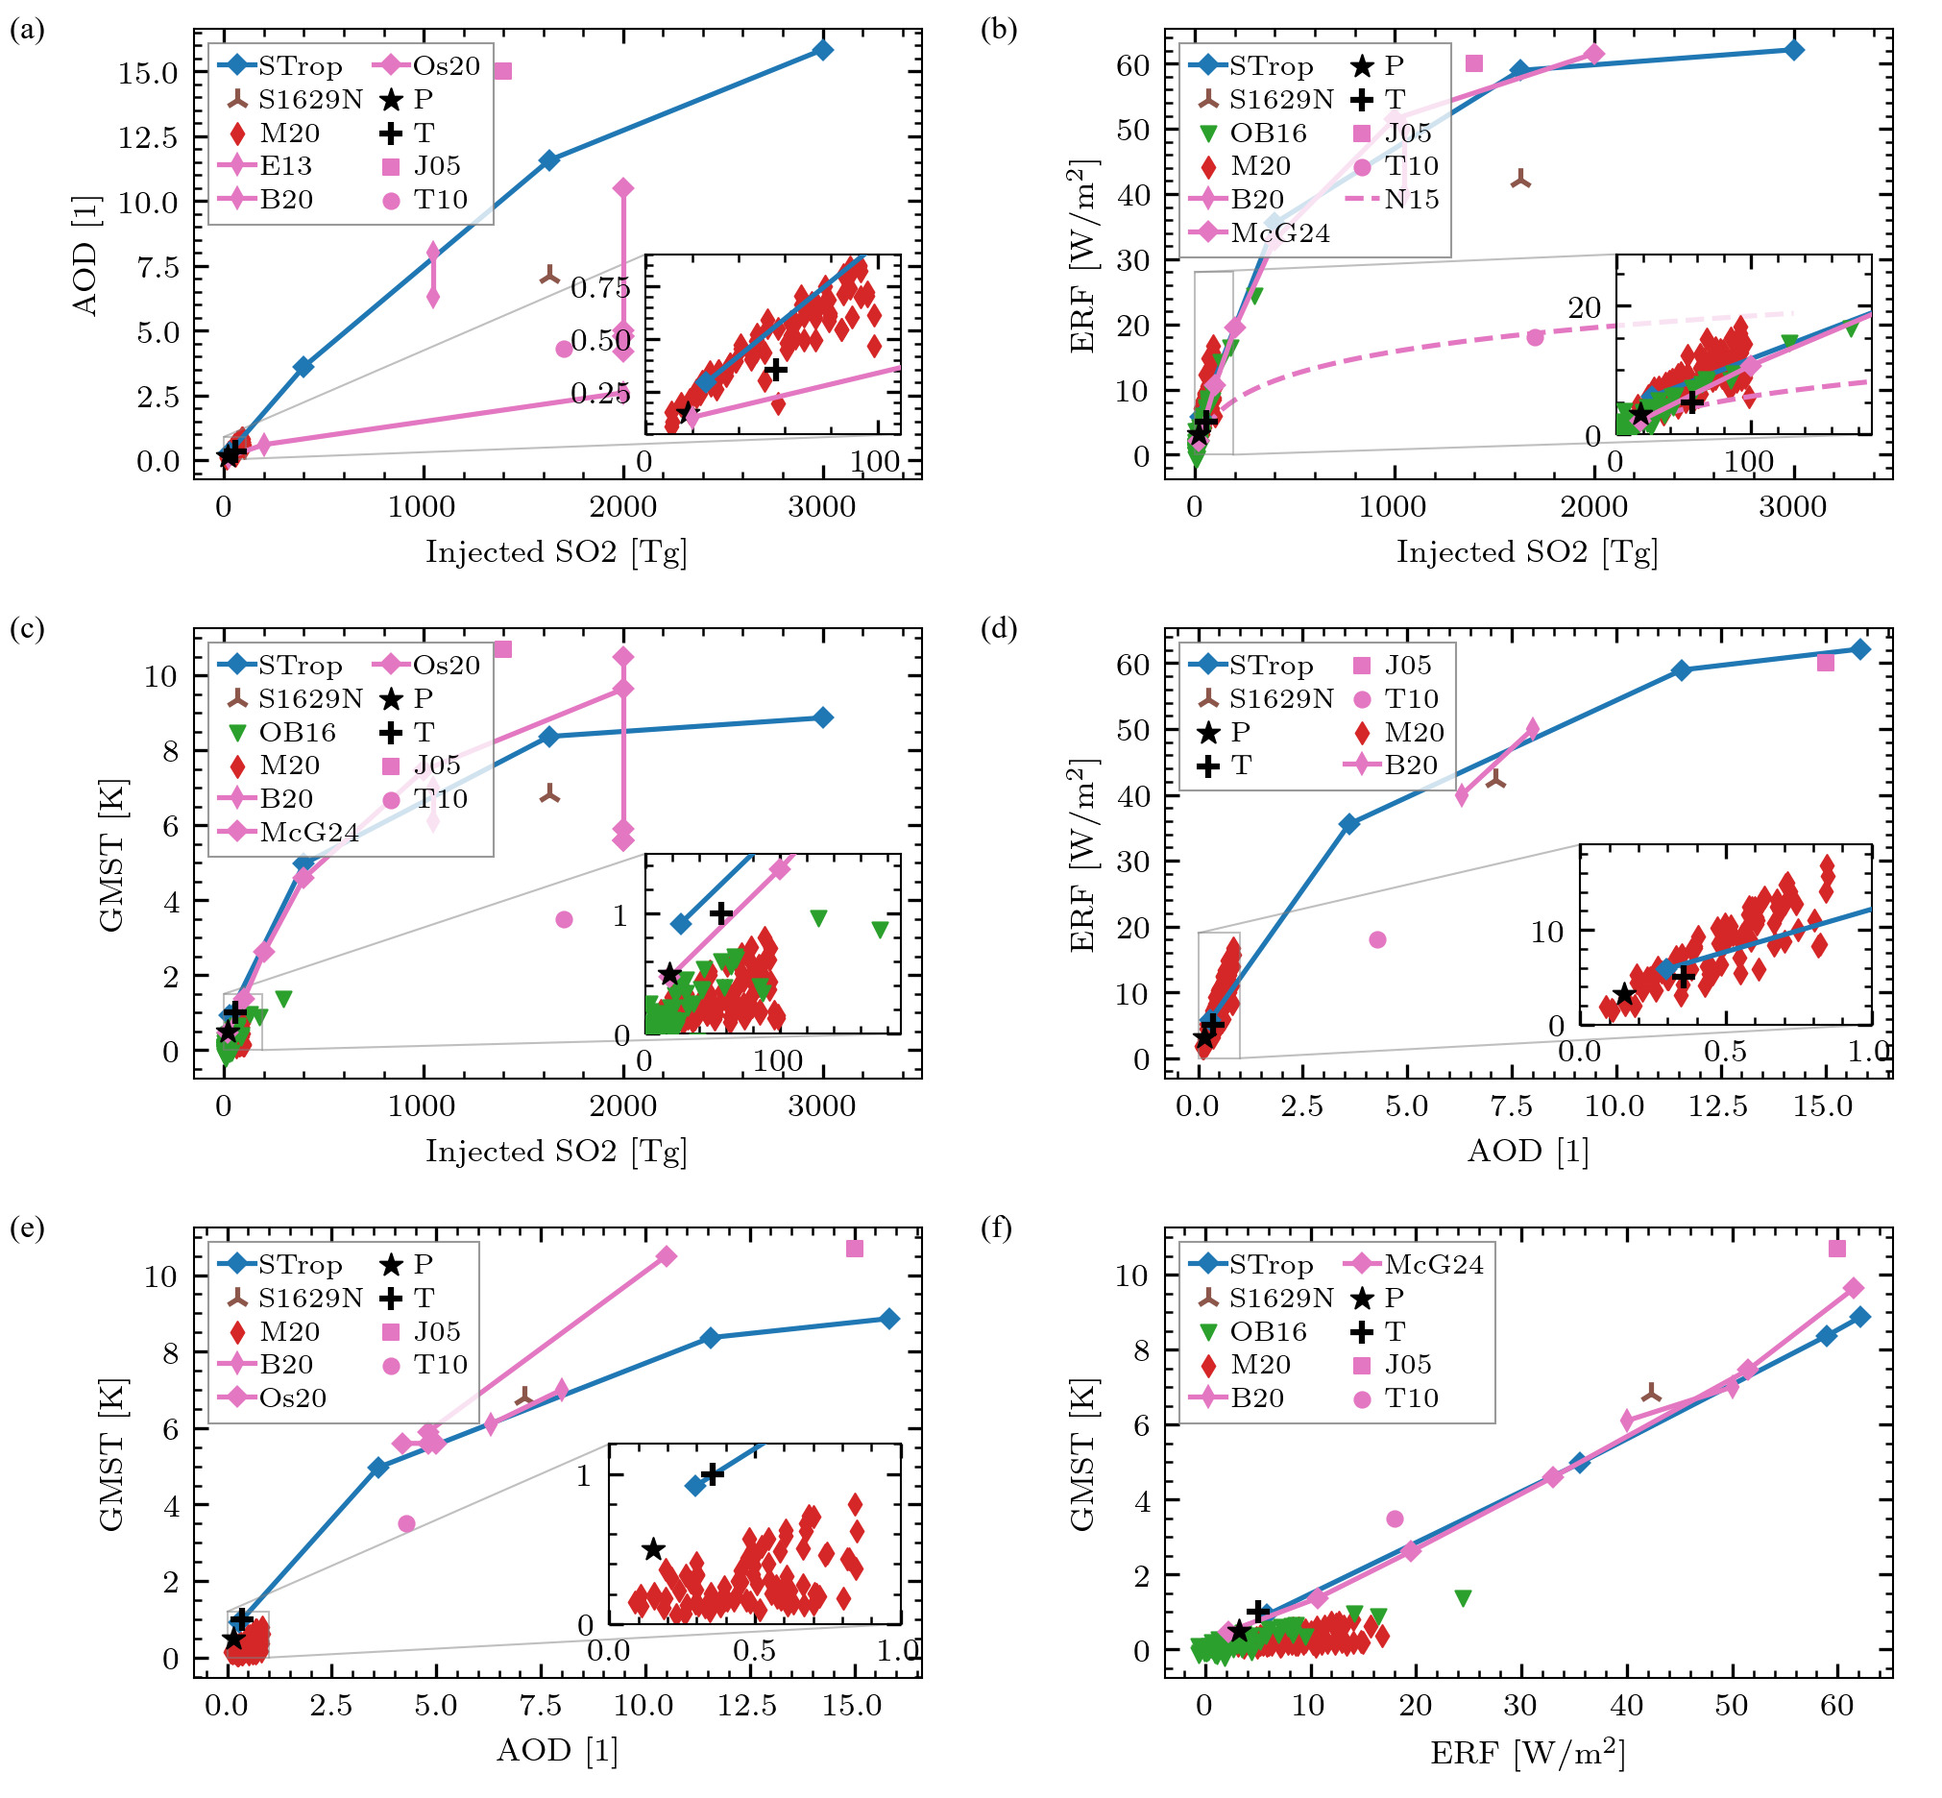
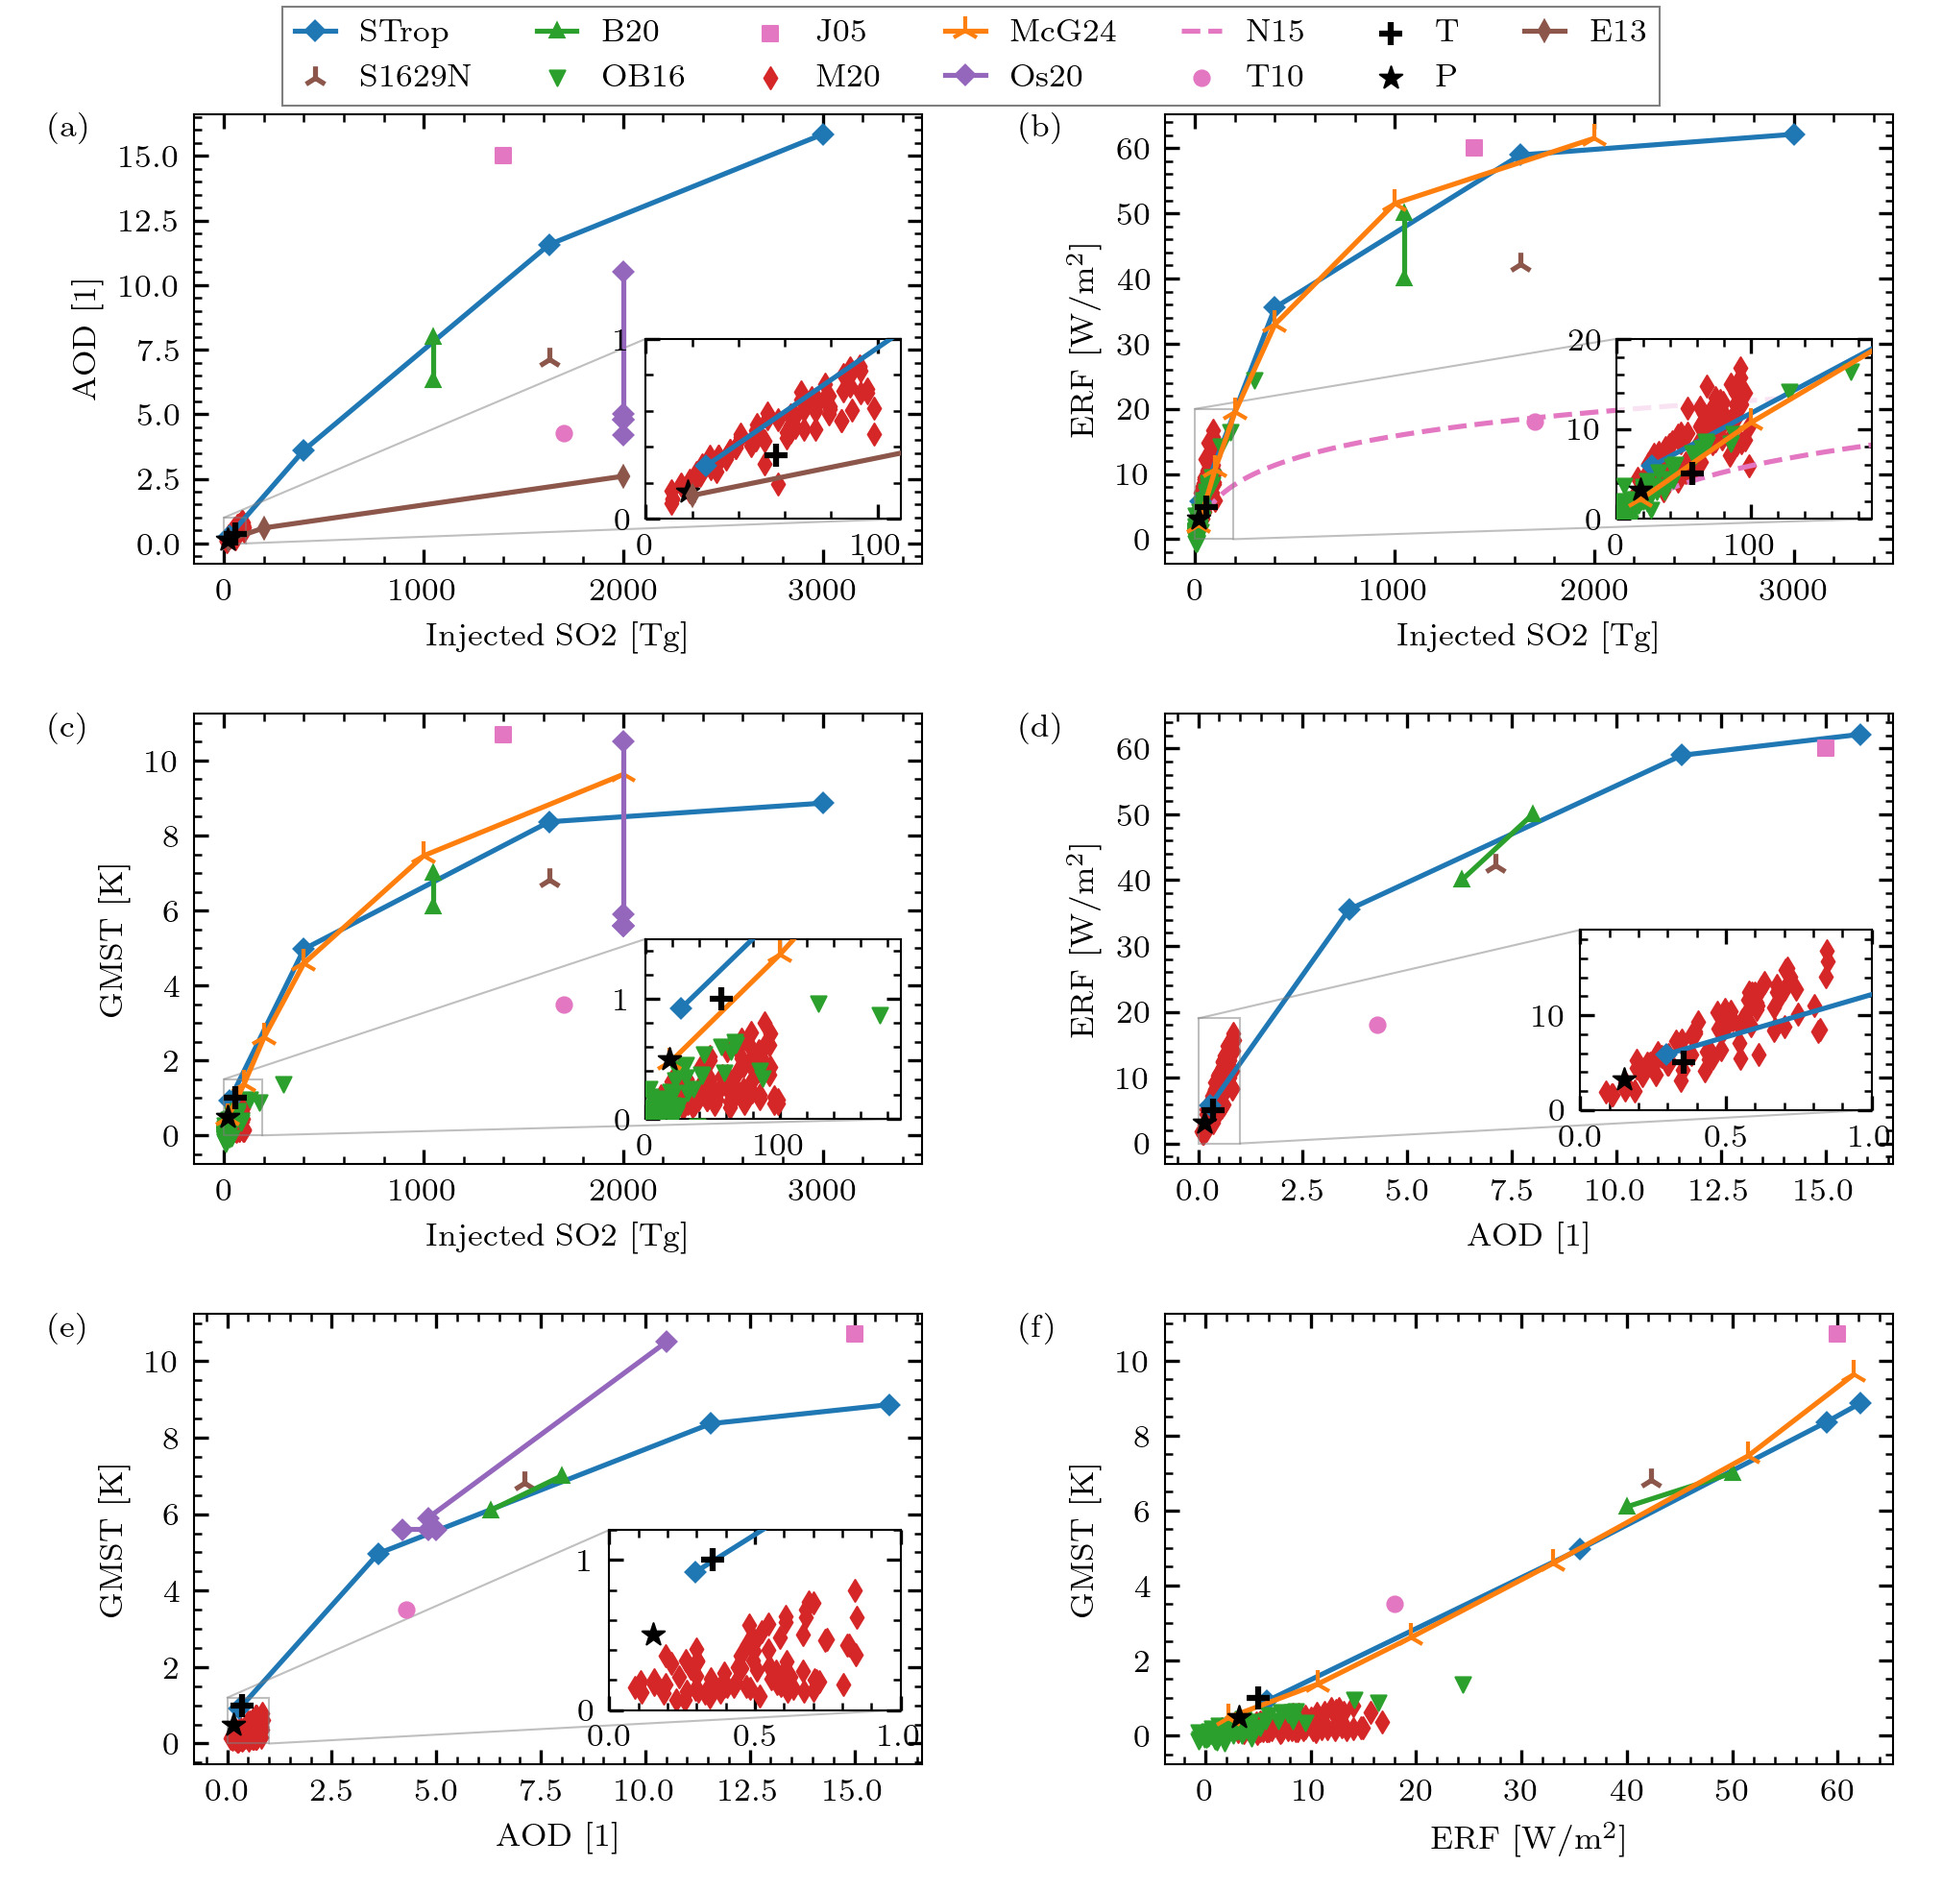
chore(review): update fig4 and the text around

diff --git a/agujournaltemplate.tex b/agujournaltemplate.tex
@@ -100,7 +100,7 @@
     AOD, and a longer-lasting GMST response while the time evolution of ERF remains
     similar between the two eruption types. We find that the peak ERF approaches a
     limiting value, and that the peak GMST response follows linearly, effectively
-    bounding the GMST to at most \(\sim\SI{-12}{\kelvin}\). When including the results
+    bounding the GMST to at most \(\sim\SI{-10}{\kelvin}\). When including the results
     of previous studies, we find that relating \ce{SO2} to any other parameter is
     inconsistent across models compared to the relationships between AOD, ERF, and GMST.
     Thus, we expect the largest uncertainty in model codes to relate to
@@ -657,22 +657,29 @@
   display a similar pattern, with AOD exhibiting close to linear dependence on injected
   \ce{SO2}, but with latitude introducing a spread in AOD. Peak values from
   Mt.\ Pinatubo (P) and Mt.\ Tambora (T) align well with simulation data, while peak
-  values from other simulations of large \ce{SO2} magnitudes (J05, T10, E13, B20, Os20)
-  show a larger spread, specifically to weaker AOD response.
+  values from other simulations of large \ce{SO2} magnitudes (J05, E13, T10, Os20) show
+  a larger spread, specifically to weaker AOD response. B20 align well with STrop, which
+  also used the CESM2(WACCM6) climate model. Even though E13 did use a similar yet
+  simpler and older model in WACCM3, their AOD peak values are significantly smaller
+  than what we find here. From the largest eruption simulation by E13 they obtain a peak
+  aerosol effective radius of \(R_{\mathrm{EFF}}=\SI{1.9}{\micro\meter}\), which is much
+  bigger than the \(R_{\mathrm{EFF}}=\SI{0.7}{\micro\meter}\) obtained by B20 for
+  eruptions injecting half as much \ce{SO2} as E13, and using the same climate model as
+  us.
 
   In Fig.~\ref{fig:4_parameter_scan}b, ERF plotted against injected \ce{SO2} (with the
   absolute value of ERF on the \(y\)-axis) indicates a substantial damping effect on ERF
   as injected \ce{SO2} increases for the STrop data, in agreement with results from
-  \citeA{ottobliesner2016}, labelled OB16. The OB16 data come from a \(2500\) year long
-  simulation using historic volcanoes as the only external forcing. The analysis details
-  of OB16 can be found in Appendix B, section~\ref{ap:ob16}. Despite the model
-  complexity difference, \citeA{ottobliesner2016}'s simulations using Community Earth
-  System Model version 1 (CESM1) with a low-top atmosphere (CAM5) produce ERFs
-  comparable to our findings. Both B20 and McG24 align well with STrop, and while B20
-  uses the same climate model, McG24 uses the GISS ModelE2.1 but where a fixed aerosol
-  effective radius of \(R_{\text{EFF}}=\SI{0.6}{\micro\meter}\) was used. This
-  \(R_{\text{EFF}}\) is at the lower end of their simulations, which is shown by
-  \citeA{mcgraw2024} to produce the most extreme ERF and GMST perturbations.
+  OB16. The OB16 data come from a \(2500\) year long simulation using historic volcanoes
+  as the only external forcing. The analysis details of OB16 can be found in Appendix B,
+  section~\ref{ap:ob16}. Despite the model complexity difference,
+  \citeA{ottobliesner2016}'s simulations using Community Earth System Model version 1
+  (CESM1) with a low-top atmosphere (CAM5) produce ERFs comparable to our findings. Both
+  B20 and McG24 align well with STrop, and while B20 uses the same climate model, McG24
+  uses the GISS ModelE2.1 but where a fixed aerosol effective radius of
+  \(R_{\text{EFF}}=\SI{0.6}{\micro\meter}\) was used. This \(R_{\text{EFF}}\) is at the
+  lower end of their simulations, which is shown by \citeA{mcgraw2024} to produce the
+  most extreme ERF and GMST perturbations.
 
   \begin{figure*}
     \centering \includegraphics[width=\textwidth]{figure4}
@@ -681,19 +688,14 @@
       function of injected \ce{SO2}\@. (d) ERF and (e) GMST as a function of AOD. (f)
       GMST as a function of ERF. Blue diamonds labelled STrop represent tropical cases
       (S26, S400, S1629, S3000), the brown three-branched twig signifies the S1629N
-      case, and green downward triangles denote OB16 data from \citeA{ottobliesner2016}.
-      The red thin diamonds labelled M20 display the \citeA{marshall2020dataset} data.
-      Black star and plus indicate Mt.\ Pinatubo and Mt.\ Tambora estimates based on
-      observations. The pink square labelled J05 refers to the one-hundred times
-      Mt.\ Pinatubo super-volcano from \citeA{jones2005}, and the pink disk labelled T10
-      represents the YTT super-volcano from \citeA{timmreck2010}. The pink dashed line
-      labelled N15 is from \citeA{niemeier2015}, indicating the function in
-      Eq.~\ref{eq:niemeier_exponential}.}\label{fig:4_parameter_scan}%
+      case, and green downward triangles denote OB16 while green upward triangles denote
+      B20. The pink square is J05 and the red thin diamonds are M20. McG24 and Os20 are
+      indicated by purple upward twigs and orange diamonds, while pink circle and dashed
+      line represent T10 and N15. Black star and plus indicate Mt.\ Pinatubo and
+      Mt.\ Tambora estimates based on observations, and brown thin diamonds denote E13.
+    }\label{fig:4_parameter_scan}%
   \end{figure*}
 
-  % INFO: the conversion between S and SO2 is confirmed by Niemeier and Timmreck (2015)'s
-  % reference to the Bekki et al. (1996) paper. Bekki uses 6000 Mt SO2, Niemeier uses 3000
-  % Tg(S).
   \citeA{niemeier2015} conducted simulations of continuous sulphur injections up to
   \(\SI{200}{\tera\gram(\ce{SO2})\mathrm{yr}^{-1}}\) in the ECHAM5's middle atmosphere
   version \cite{giorgetta2006} with aerosol microphysics from HAM \cite{stier2005}. They
@@ -774,7 +776,8 @@
   OB16. However, potential biases exist in the values from the analysis of OB16, as
   outlined in Appendix B, section~\ref{ap:ob16}. This, along with considerable noise,
   results in the analysis of OB16 GMST anomalies being less reliable. All other cases
-  (S1629N, J05, T10, B20, McG24) closely follow the GMST to ERF dependence of STrop.
+  (S1629N, J05, T10, B20, McG24) closely follow the linear GMST to ERF dependence of
+  STrop.
 
   The almost linear relationship between AOD and injected \ce{SO2} for the STrop data in
   Fig.~\ref{fig:4_parameter_scan}a suggests a comparable trend for ERF versus injected
@@ -887,7 +890,7 @@
       S26 & \(\num{2.9\pm0.6}\) & \(\num{0.36\pm0.07}\) \\
       Total & \(\num{2.5\pm0.4}\) & \(\num{0.41\pm0.05}\) \\
       \toprule
-      \multicolumn{3}{l}{\parbox{\linewidth}{\(^{a}\)Estimates are based on ensembles with four members and \(\tau
+      \multicolumn{3}{l}{\parbox{0.5\linewidth}{\(^{a}\)Estimates are based on ensembles with four members and \(\tau
           =\SI{20}{\mathrm{yr}}\) using Eq.~\ref{eq:climate-resistance}.}} \\
     \end{tabular}
   \end{table}
@@ -949,7 +952,7 @@
   approximation of ERF dependence on AOD for eruptions similar to or smaller than Mt.\
   Pinatubo, additional factors must be considered for larger eruptions. These factors,
   such as \ce{OH} scarcity and aerosol growth, influence reflectance and their
-  gravitational pull, substantially impacting both AOD and ERF evolution, is highlighted
+  gravitational pull, substantially impacting both AOD and ERF evolution, as highlighted
   by \citeA{timmreck2010}. The large difference in ratio found when comparing eruption
   magnitudes suggests that injected \ce{SO2} is crucial when estimating the time-average
   of the ERF to AOD ratio. However, latitude and, in particular, aerosol dispersion are
@@ -964,7 +967,7 @@
   dependence found between the parameters in Fig.~\ref{fig:4_parameter_scan}, and a
   strong signature across both eruption magnitudes and latitudes, but also across highly
   different climate models. Thus, from a maximum ERF of \(\SI{-65}{\watt\metre^{-2}}\),
-  we expect GMST anomalies to reach at most \(\sim\SI{-12}{\kelvin}\), in support of
+  we expect GMST anomalies to reach at most \(\sim\SI{-10}{\kelvin}\), in support of
   \citeA{english2013} who suggested that large eruptions can be self-limiting.
 
   % Models vary in their SO2 to H2SO4 chemistry/physics, but are comparatively
@@ -1026,6 +1029,13 @@
   particularly as a function of time-after-eruption. These findings emphasise the
   complexity of volcanic impacts on climate, demonstrating significant differences in
   climatic response depending on eruption magnitude and latitude.
+
+  A clear trend across all simulations performed here and across several previous
+  studies is a linear relationship between peek GMST and ERF. Further, the peak values
+  seem to stagnate with no ERF peaks breaking the suggested lower bound of
+  \(\text{ERF}=\SI{-65}{\watt\metre^{-2}}\) by \citeA{niemeier2015}. Thus, we expect
+  supereruptions to be self-limiting with the most extreme GMST perturbations reaching
+  at most \(~\sim \SI{-10}{\kelvin}\).
 
   We find that the AOD peak arrives later for larger eruptions than for smaller ones,
   and also that larger eruptions produce a sharper peak in the AOD time series. The ERF
